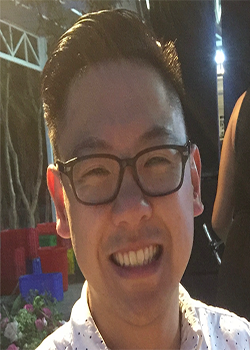
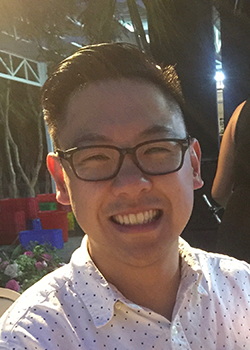
Change tri's photo

diff --git a/frontend/src/components/about/about.css b/frontend/src/components/about/about.css
@@ -4,7 +4,7 @@
     top: 200px;
     color: black;
     z-index: 25;
-     margin-left: 100px;
+    margin-left: 100px;
     margin-right: 100px;
 }
 
@@ -22,13 +22,20 @@
 .about-page-header {
     display: flex;
     flex-direction: column;
+    /* margin: 0px 180px; */
     /* margin-left: 100px;
     margin-right: 100px; */
 }
 
+
+
+.about-page-header a{
+    color:blue;
+}
+
 @import url(https://fonts.googleapis.com/css?family=Source+Sans+Pro:400,200,200italic,300,300italic,400italic,600,600italic,700,700italic,900,900italic);
 
-body {
+/* body {
     font-family: 'Source Sans Pro', sans-serif;
     line-height: 1.5;
     color: #323232;
@@ -37,11 +44,15 @@ body {
     text-rendering: optimizeLegibility;
     -webkit-font-smoothing: antialiased;
     -moz-font-smoothing: antialiased;
-}
+} */
 .heading-title {
     margin-top: 25px;
     margin-bottom: 25px;
 }
+/* .heading-title h3{
+    display: block;
+} */
+
 .text-center {
     text-align: center;
 }
@@ -77,13 +88,20 @@ body {
 
 .team-img{
     height: 350px;
-    width: 200px;
+    width: 250px;
 }
 
-/* .img-responsive{
+.img-responsive{
     min-width: 100%;
     min-height: 100%;
-} */
+}
+
+.engineer-profile{
+    display: flex;
+    flex-direction: column;
+    /* justify-content: center; */
+    align-items: center;
+}
 
 /* .engineer-profile{
     display: flex;
@@ -107,7 +125,8 @@ body {
 .row{
     display: flex;
     justify-content: center;
-    align-content: center;
+    align-items: center;
+    flex-direction: column;
 }
 
 .team-hover {
@@ -122,6 +141,8 @@ body {
     opacity: 0;
     -webkit-transition: all 0.3s;
     transition: all 0.3s;
+    display: flex;
+    justify-content: center;
 }
 .team-member:hover .team-hover .desk {
     top: 35%;
@@ -145,6 +166,15 @@ body {
     text-align: center;
     color: #222;
 }
+
+.desk{
+    margin-top: 40px;
+    /* display: flex;
+    flex-direction: column;
+    justify-content: center;
+    align-items: center; */
+}
+
 .team-member:hover .team-hover .s-link {
     bottom: 10%;
 }
@@ -175,11 +205,17 @@ body {
 }
 .team-title {
     position: static;
-    padding: 20px 0;
+    padding-bottom: 20px;
     display: inline-block;
     letter-spacing: 2px;
     width: 100%;
 }
+
+.team-title span{
+    display: flex;
+    justify-content: center;
+}
+
 .team-title h5 {
     margin-bottom: 0px;
     display: block;
@@ -190,4 +226,33 @@ body {
     text-transform: uppercase;
     color: #a5a5a5;
     letter-spacing: 1px;
+}
+
+.container {
+    width: 100%;
+  /* padding-right: 15px;
+  padding-left: 15px;
+  margin-right: auto;
+  margin-left: auto; */
+}
+
+.row{
+display: -ms-flexbox;
+  display: flex;
+  -ms-flex-wrap: wrap;
+  flex-wrap: wrap;
+  /* margin-right: -15px;
+  margin-left: -15px; */
+}
+
+.col-1, .col-2, .col-3, .col-4, .col-5, .col-6, .col-7, .col-8, .col-9, .col-10, .col-11, .col-12, .col,
+.col-auto, .col-sm-1, .col-sm-2, .col-sm-3, .col-sm-4, .col-sm-5, .col-sm-6, .col-sm-7, .col-sm-8, .col-sm-9, .col-sm-10, .col-sm-11, .col-sm-12, .col-sm,
+.col-sm-auto, .col-md-1, .col-md-2, .col-md-3, .col-md-4, .col-md-5, .col-md-6, .col-md-7, .col-md-8, .col-md-9, .col-md-10, .col-md-11, .col-md-12, .col-md,
+.col-md-auto, .col-lg-1, .col-lg-2, .col-lg-3, .col-lg-4, .col-lg-5, .col-lg-6, .col-lg-7, .col-lg-8, .col-lg-9, .col-lg-10, .col-lg-11, .col-lg-12, .col-lg,
+.col-lg-auto, .col-xl-1, .col-xl-2, .col-xl-3, .col-xl-4, .col-xl-5, .col-xl-6, .col-xl-7, .col-xl-8, .col-xl-9, .col-xl-10, .col-xl-11, .col-xl-12, .col-xl,
+.col-xl-auto {
+  position: relative;
+  width: 100%;
+  padding-right: 15px;
+  padding-left: 15px;
 }

diff --git a/frontend/src/components/map/map.jsx b/frontend/src/components/map/map.jsx
@@ -300,40 +300,3 @@ function Locate({ panTo }) {
         </button>
     );
 }   
-
-// function Active(input)
-
-// function Search({ panTo }) {
-//     const {
-//         ready,
-//         value,
-//         suggestions: { status, data },
-//         setValue,
-//         clearSuggestions,
-//     } = usePlacesAutocomplete({
-//         requestOptions: {
-//             location: { lat: () => 37.774929, lng: () => -122.419418 },
-//             radius: 100 * 1000,
-//         },
-//     });
-
-//     // https://developers.google.com/maps/documentation/javascript/reference/places-autocomplete-service#AutocompletionRequest
-
-//     const handleInput = (e) => {
-//         setValue(e.target.value);
-//     };
-
-//     const handleSelect = async (address) => {
-//         setValue(address, false);
-//         clearSuggestions();
-//         searchResult = address;
-//         try {
-//             const results = await getGeocode({ address });
-//             const { lat, lng } = await getLatLng(results[0]);
-//             panTo({ lat, lng });
-//         } catch (error) {
-//             console.log("😱 Error: ", error);
-//         }
-//     };
-
-

diff --git a/frontend/src/components/about/about.jsx b/frontend/src/components/about/about.jsx
@@ -8,7 +8,7 @@ import kevin from "../../images/Kevin_Lai.JPG"
 import jd from "../../images/jd.JPG"
 import tri from "../../images/tritop.png"
 import jacky from "../../images/jacky.PNG"
-import 'bootstrap/dist/css/bootstrap.css';
+// import 'bootstrap/dist/css/bootstrap.css';
 
 class About extends React.Component {
 
@@ -46,7 +46,6 @@ class About extends React.Component {
                     <div className="row">
                         <div class="heading-title text-center">
                             <h3 className="text-uppercase">Our Engineers </h3>
-                            <p className="p-top-30 half-txt"></p>
                         </div>
                         <div className="bios">
                             <div className="col-md-4 col-sm-4">
